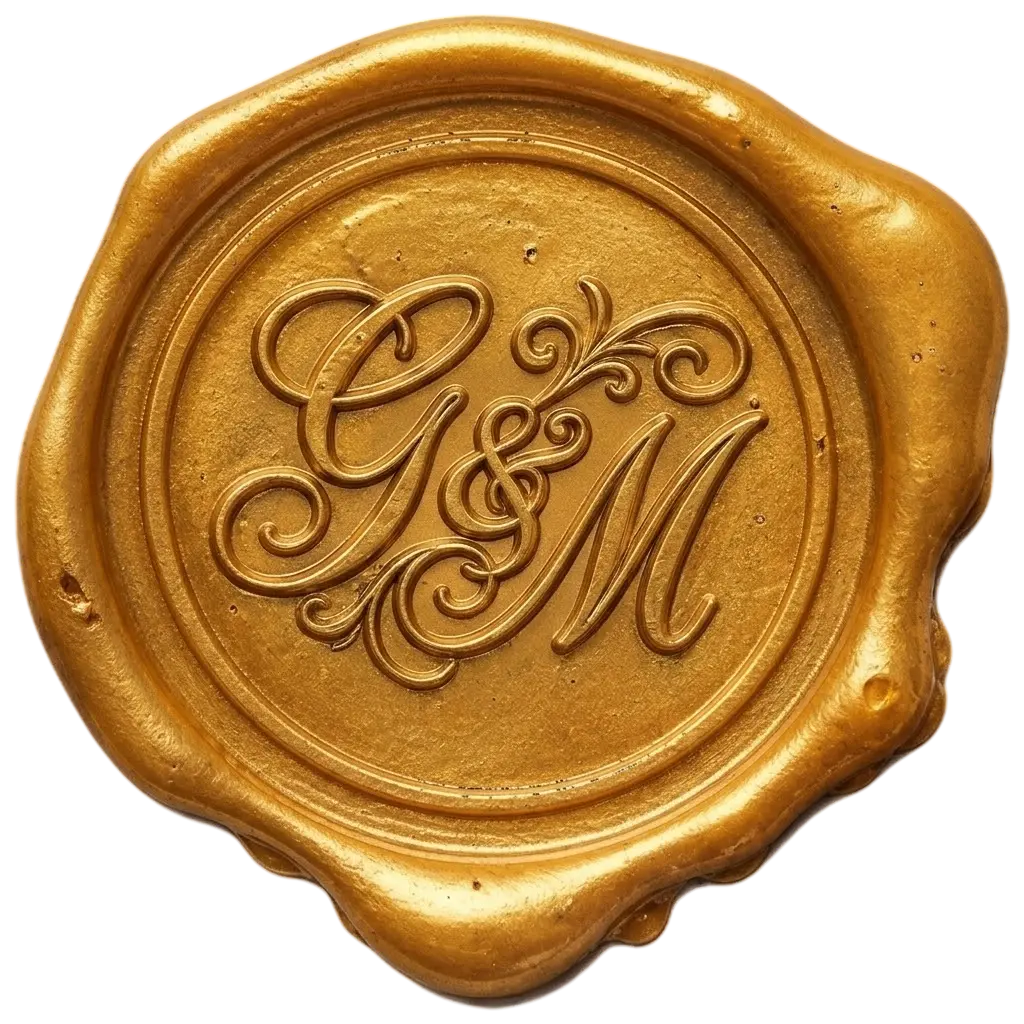
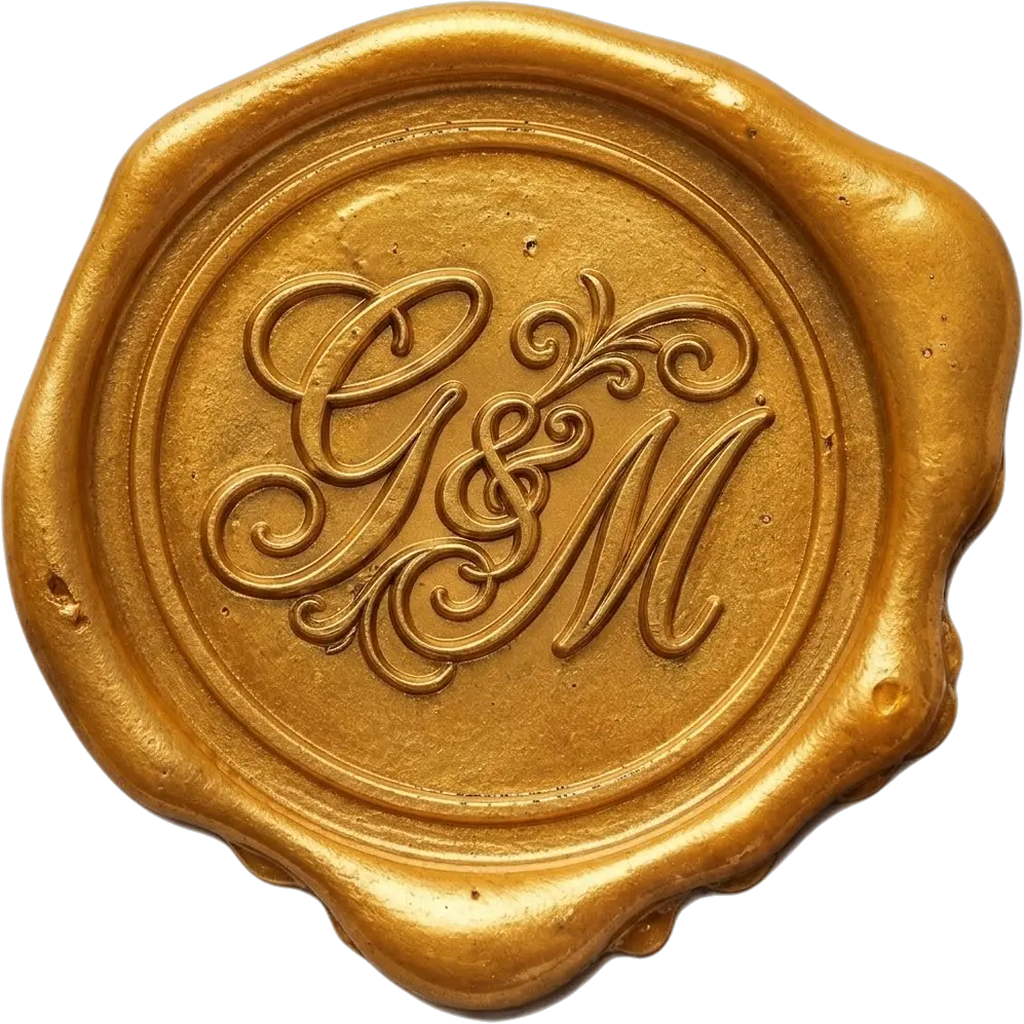
Elimina il riquadro del sigillo su mobile.

diff --git a/index.html b/index.html
@@ -12,7 +12,7 @@
   <link rel="apple-touch-icon" href="apple-touch-icon.png?v=9" sizes="180x180" />
   <link rel="preload" as="image" type="image/webp" href="images/gate-florals-tl.webp?v=60" fetchpriority="high" />
   <link rel="preload" as="image" type="image/webp" href="images/gate-florals-br.webp?v=60" fetchpriority="high" />
-  <link rel="preload" as="image" type="image/webp" href="images/wax-seal-gold.webp?v=56" />
+  <link rel="preload" as="image" type="image/webp" href="images/wax-seal-gold.webp?v=61" />
   <link rel="preconnect" href="https://fonts.googleapis.com" />
   <link rel="preconnect" href="https://fonts.gstatic.com" crossorigin />
   <link
@@ -24,7 +24,7 @@
   <noscript>
     <link href="https://fonts.googleapis.com/css2?family=Cormorant+Garamond:ital,wght@0,400;0,500;0,600;1,400;1,500&family=Italianno&family=Outfit:wght@300;400;500&display=swap" rel="stylesheet" />
   </noscript>
-  <link rel="stylesheet" href="styles.css?v=61" />
+  <link rel="stylesheet" href="styles.css?v=62" />
 </head>
 <body>
   <!-- Gatefold overlay -->
@@ -60,17 +60,17 @@
               />
             </span>
           </span>
-          <span class="envelope-gate__seal" aria-hidden="true">
-            <img
-              class="envelope-gate__seal-wax"
-              src="images/wax-seal-gold.webp?v=56"
-              alt=""
-              width="720"
-              height="720"
-              draggable="false"
-              decoding="async"
-            />
-          </span>
+        </span>
+        <span class="envelope-gate__seal" aria-hidden="true">
+          <img
+            class="envelope-gate__seal-wax"
+            src="images/wax-seal-gold.webp?v=61"
+            alt=""
+            width="720"
+            height="720"
+            draggable="false"
+            decoding="async"
+          />
         </span>
       </span>
     </button>

diff --git a/styles.css b/styles.css
@@ -310,9 +310,24 @@ textarea {
   transform: translate(-50%, -50%);
   z-index: 14;
   pointer-events: none;
+  background: transparent;
   transition:
     opacity calc(var(--anim-gate-open) * 0.28) ease-out,
     transform calc(var(--anim-gate-open) * 0.28) ease-out;
+}
+
+.envelope-gate__seal::before {
+  content: "";
+  position: absolute;
+  left: 50%;
+  top: 52%;
+  width: 72%;
+  height: 72%;
+  transform: translate(-50%, -50%);
+  border-radius: 50%;
+  background: radial-gradient(circle, rgba(58, 52, 44, 0.28) 0%, rgba(58, 52, 44, 0) 72%);
+  z-index: 0;
+  pointer-events: none;
 }
 
 .envelope-gate__seal-wax {
@@ -322,7 +337,8 @@ textarea {
   height: 100%;
   object-fit: contain;
   display: block;
-  filter: drop-shadow(0 7px 14px rgba(58, 52, 44, 0.34));
+  background: transparent;
+  z-index: 1;
   user-select: none;
   -webkit-user-drag: none;
   pointer-events: none;
